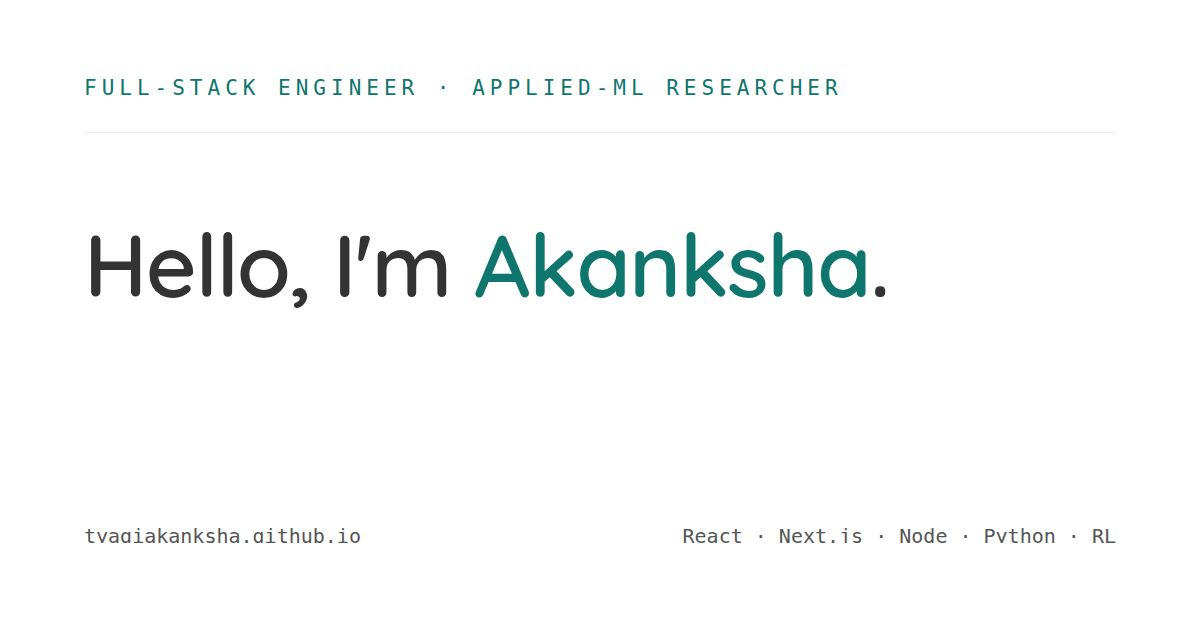
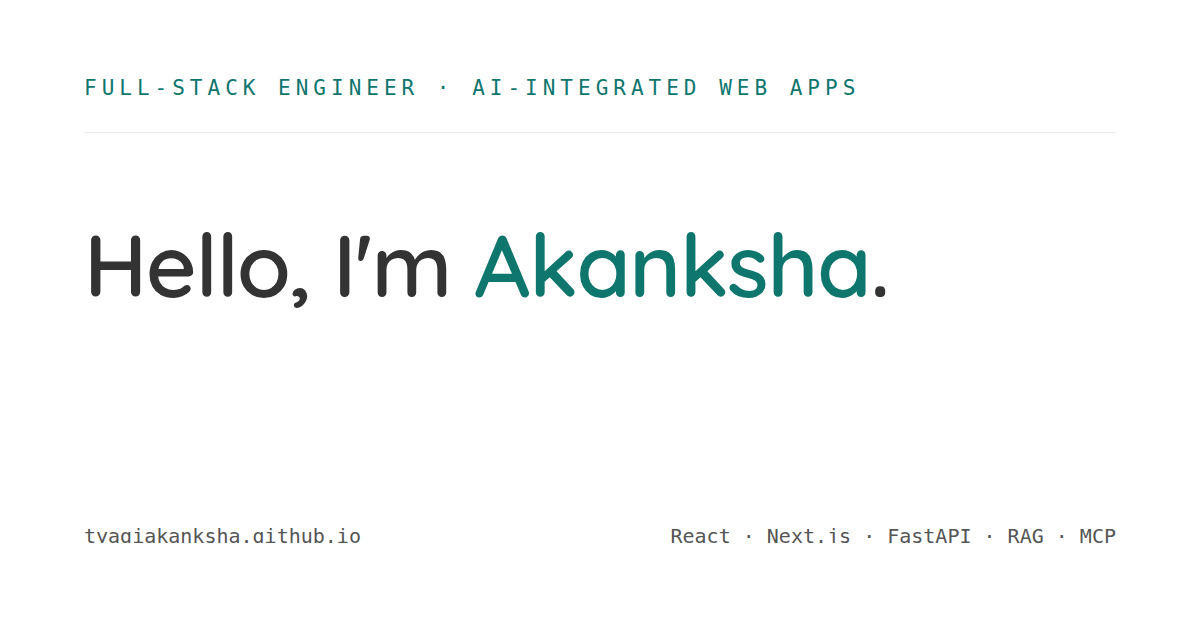
content: sync site with July 2026 resume
- new flagship case study: AdvisorDesk (AI-powered advisory content
  platform — Next.js x2 + FastAPI, Supabase pgvector RAG with citations,
  agentic MCP content layer, Docker/AWS) — featured, first
- positioning: 'Full-Stack Engineer · AI-Integrated Web Apps' (kicker,
  about intro, meta description, OG card)
- skills restructured to resume groups: Languages / Web / AI & ML
  (LLM integration, RAG, AI agents (MCP)) / Databases (Supabase pgvector)
  / Cloud & DevOps (Docker, AWS, Linux)
- GPA 3.83 -> 3.75; coursework trimmed to resume's four
- Cybersecurity Lab RA closed at Jun 2026; generative-vision work folded
  into the lab entry; project dates updated to match
- steganography case study retained on site (dropped from resume) per
  owner's choice
- updated resume PDF

Changed region(s): [[0.555, 0.8143, 0.925, 0.8746], [0.4008, 0.1206, 0.7092, 0.1508]]

diff --git a/src/data/skills.ts b/src/data/skills.ts
@@ -3,37 +3,33 @@ export type SkillGroup = {
   skills: string[];
 };
 
-// Ordered full-stack-first for FDE/full-stack positioning.
+// Mirrors the resume's grouping (updated Jul 2026) — AI-integrated web apps first.
 export const skillGroups: SkillGroup[] = [
   {
-    label: "Frontend",
-    skills: ["React", "Next.js", "TypeScript", "JavaScript", "HTML", "CSS"],
+    label: "Languages",
+    skills: ["Python", "TypeScript", "JavaScript", "SQL", "C/C++"],
   },
   {
-    label: "Backend & Data",
-    skills: [
-      "Node.js",
-      "Python",
-      "FastAPI",
-      "Prisma ORM",
-      "PostgreSQL",
-      "MongoDB / Mongoose",
-      "SQL",
-      "PHP",
-    ],
+    label: "Web",
+    skills: ["React", "Next.js", "Node.js", "FastAPI", "REST APIs", "HTML/CSS"],
   },
   {
-    label: "Machine Learning",
+    label: "AI & ML",
     skills: [
+      "LLM integration",
+      "RAG",
+      "AI agents (MCP)",
       "PyTorch",
-      "TensorFlow",
-      "scikit-learn",
       "Reinforcement Learning",
       "Graph Neural Networks",
     ],
   },
   {
-    label: "Tools & Languages",
-    skills: ["Git", "C", "C#", "LaTeX", "Jupyter"],
+    label: "Databases",
+    skills: ["PostgreSQL", "MongoDB", "Supabase (pgvector)"],
+  },
+  {
+    label: "Cloud & DevOps",
+    skills: ["Docker", "AWS", "Git", "Linux"],
   },
 ];

diff --git a/src/data/experience.ts b/src/data/experience.ts
@@ -14,25 +14,18 @@ export const experience: Experience[] = [
     title: "Research Assistant",
     org: "Cybersecurity Lab, University of Arkansas",
     location: "Fayetteville, AR",
-    dates: "Jan 2024 – Present",
+    dates: "Jan 2024 – Jun 2026",
     advisor: "Dr. Qinghua Li",
     bullets: [
       "Developed reinforcement-learning-based models that generate fuzzing test cases, significantly improving vulnerability detection and code coverage over traditional fuzzing — published at IEEE CSR 2025.",
-      "Master's thesis: building machine-learning models for real-time anomaly detection in cyber-physical water testbeds (SWaT, WADI, ACWA), hardening critical infrastructure against cyber-physical attacks.",
+      "Master's thesis: built machine-learning models for real-time anomaly detection in cyber-physical water testbeds (SWaT, WADI, ACWA), hardening critical infrastructure against cyber-physical attacks.",
+      "Generative vision — diffusion & LDMs: built DDPM and latent-diffusion models for high-fidelity image synthesis and text-to-image generation (cross-attention U-Net), evaluated on ALOT, CelebA-HQ, and LAION with FID/IS.",
     ],
-    projects: ["rl-guided-fuzzing", "water-anomaly-detection"],
-  },
-  {
-    title: "Machine Learning & Computer Vision Projects",
-    org: "University of Arkansas",
-    location: "Fayetteville, AR",
-    dates: "Jan 2024 – Present",
-    bullets: [
-      "Built denoising diffusion probabilistic models (DDPM) on the Amsterdam Library of Textures to synthesize diverse, high-fidelity artificial textures for data augmentation.",
-      "Implemented a deep-learning steganography framework that embeds one image inside another with high imperceptibility and robust recoverability; optimized architecture and training for concealment accuracy.",
-      "Implemented latent diffusion models for efficient text-to-image generation with cross-attention U-Net conditioning; evaluated on CelebA-HQ and LAION with FID and IS scores.",
+    projects: [
+      "rl-guided-fuzzing",
+      "water-anomaly-detection",
+      "diffusion-image-synthesis",
     ],
-    projects: ["diffusion-image-synthesis", "deep-learning-steganography"],
   },
   {
     title: "Research Intern — RL for Traffic Optimization",
@@ -42,8 +35,7 @@ export const experience: Experience[] = [
     advisor: "Dr. Praveen Paruchuri",
     bullets: [
       "Optimized lane-level dynamics and vehicle-to-vehicle communication by simulating multi-modal traffic environments in SUMO, improving overall traffic-control efficiency.",
-      "Developed Stable-Baselines3 reinforcement-learning models for lane selection and emergency-vehicle dynamics, boosting response efficiency and safety.",
-      "Evaluated RL strategies on grid-world and real-world-inspired road networks, surpassing human-level performance — published at VEHITS 2024 (Best Student Paper nominee).",
+      "Reduced traversal times significantly by evaluating RL strategies on grid-world and real-world-inspired road networks, surpassing human-level performance — published at VEHITS 2024 (Best Student Paper nominee).",
     ],
     projects: ["ev-traffic-optimization"],
   },
@@ -53,8 +45,7 @@ export const experience: Experience[] = [
     location: "Roorkee, India",
     dates: "Jun 2021 – Apr 2022",
     bullets: [
-      "Designed and shipped a city complaint management system using PHP, WordPress, HTML, CSS, and JavaScript, improving civic issue reporting and response times for real users.",
-      "Streamlined team workflows and communication, raising overall delivery efficiency.",
+      "Designed and developed a city complaint management system using PHP, WordPress, HTML, CSS, and JavaScript, enhancing civic issue reporting and response times.",
     ],
     projects: ["city-complaint-system"],
   },

diff --git a/src/app/page.tsx b/src/app/page.tsx
@@ -48,9 +48,10 @@ export default function Home() {
         <Section id="about" label="About" className={SECTION_SCROLL}>
           <div className="space-y-4 text-[15.5px] leading-relaxed text-fg">
             <p>
-              I build full-stack products — and the ML behind them. I work
-              across React, Next.js, Node.js, TypeScript, and Python, with
-              peer-reviewed research in reinforcement learning and security.
+              I build full-stack, AI-integrated web apps — shipping across the
+              React/Next.js, FastAPI, and Postgres/pgvector stack with RAG,
+              vector search, and agentic MCP tooling, backed by peer-reviewed
+              research in reinforcement learning and security.
             </p>
             <p>
               I&apos;m a full-stack engineer with a Master&apos;s in Computer
@@ -74,7 +75,7 @@ export default function Home() {
               <span className="text-accent">02</span> peer-reviewed publications
             </span>
             <span>Best Student Paper nominee · VEHITS 2024</span>
-            <span>MS Computer Science · GPA 3.83/4.0</span>
+            <span>MS Computer Science · GPA 3.75/4.0</span>
           </div>
           <h3 className="mb-4 mt-10 font-display text-lg font-semibold tracking-tight">
             Skills

diff --git a/src/data/education.ts b/src/data/education.ts
@@ -13,12 +13,10 @@ export const education: Education[] = [
     school: "University of Arkansas",
     location: "Fayetteville, AR",
     date: "May 2026",
-    gpa: "3.83 / 4.0",
+    gpa: "3.75 / 4.0",
     coursework: [
       "Image Processing",
       "Privacy Enhancing Technology",
-      "Computer Security",
-      "Graph and Combinatorial Algorithms",
       "Full Stack Deep Learning",
       "Machine Learning",
     ],

diff --git a/src/data/site.ts b/src/data/site.ts
@@ -1,8 +1,8 @@
 export const site = {
   name: "Akanksha Tyagi",
-  headline: "Full-stack engineer with an applied-ML research background",
+  headline: "Full-stack engineer for AI-integrated web apps",
   description:
-    "Akanksha Tyagi — full-stack engineer (React, Next.js, Node.js, TypeScript, Python) with peer-reviewed ML research in reinforcement learning and security. MS Computer Science, University of Arkansas.",
+    "Akanksha Tyagi — full-stack engineer for AI-integrated web apps (React, Next.js, FastAPI, Postgres/pgvector, RAG, agentic MCP tooling) with peer-reviewed ML research. MS Computer Science, University of Arkansas.",
   url: "https://tyagiakanksha.github.io",
   email: "[email redacted]",
   location: "Fayetteville, AR",

diff --git a/src/components/sidebar.tsx b/src/components/sidebar.tsx
@@ -33,7 +33,7 @@ export function Sidebar() {
             {site.name}
           </h1>
           <p className="mt-1 font-mono text-[10.5px] uppercase tracking-[0.18em] text-accent">
-            Full-Stack Engineer · Applied-ML Researcher
+            Full-Stack Engineer · AI-Integrated Web Apps
           </p>
         </div>
         <div className="ml-auto self-start lg:hidden">